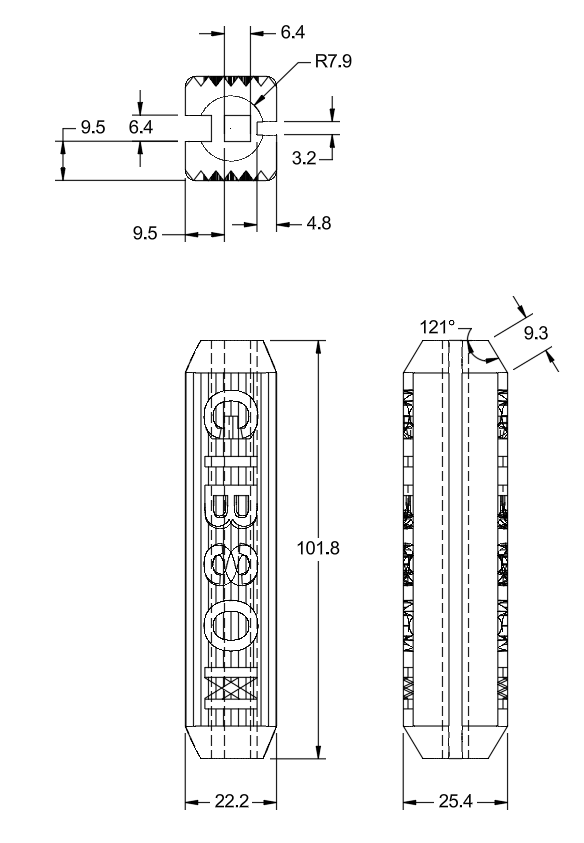
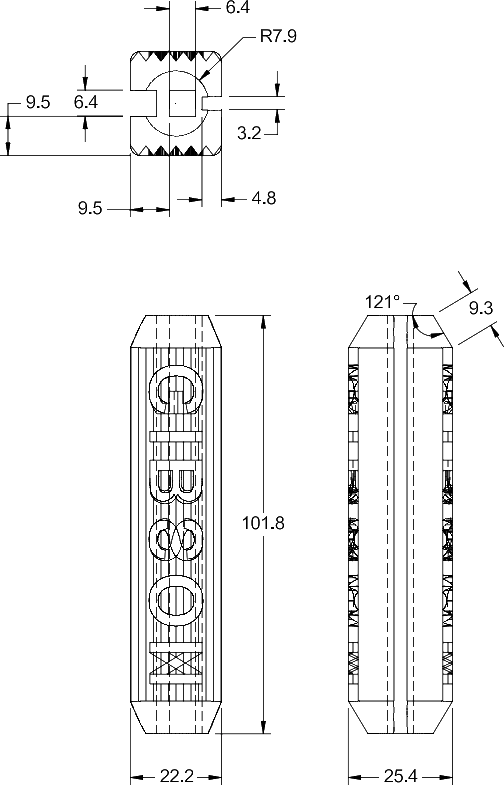
docs: document dimensions and clarify printing instructions

diff --git a/README.md b/README.md
@@ -1,7 +1,3 @@
-**still a WIP - repo as placeholder for now**
-
-Currently viewable and downloadable from the [F360 website here](https://a360.co/4dgqYPB).
-
 # Gibson Bicycle Pedal Insert
 
 3D-printable replacement insert for vintage Gibson bicycle pedals.
@@ -10,7 +6,7 @@ These black plastic inserts were originally used in Gibson bicycle
 pedals. This project provides a modern replacement that can be
 3D-printed for restoration purposes.
 
-![Gibson pedal with printed insert](Images/gibson-pedal-installed.jpg)
+![Gibson pedal with printed insert](Images/gibson-pedal-insert-photo.jpg)
 
 ## Status
 
@@ -22,24 +18,26 @@ endorsed by Gibson.
 
 ## Files
 
-- `CAD/` — source CAD files
-- `3D-print/STL/` — STL files for printing
-- `3D-print/3MF/` — 3MF files, where available
-- `docs/PRINTING.md` — printing recommendations
-- `docs/DIMENSIONS.md` — dimensions and measurements
+- `CAD/`: source CAD files
+- `3D-print/`: 3MF and STL files for printing
+- `docs/PRINTING.md`: printing recommendations
+- `docs/DIMENSIONS.md`: dimensions and measurements
 
 ## Printing
 
 Recommended starting settings:
 
-- Material: PETG
+- Material: TPU
 - Layer height: 0.20 mm
 - Walls: 4
-- Infill: 100%
+- Infill: 20%
 - Supports: No
-- Orientation: Print flat on the largest face
+- Brim: 10 mm outer brim
+- Orientation: Print vertically
 
-The part should be printed at 100% scale.
+The part should be printed at 100% scale. It will use about 25 g of TPU plastic.
+
+![Gibson pedal insert rendering](Images/gibson-pedal-insert-render.png)
 
 See [PRINTING.md](docs/PRINTING.md) for additional information.
 
@@ -52,12 +50,15 @@ Check the fit carefully before using the bicycle.
 
 ## Background
 
-This model was created as a replacement for the original plastic
+This model was created as a replacement for the original rubber
 pedal insert found on vintage Gibson bicycle pedals.
+
+Also viewable and downloadable from the [F360 website here](https://a360.co/4dgqYPB).
 
 Discussion and reference material:
 
 [The CABE Gibson Pedals thread](https://thecabe.com/forum/threads/gibson-pedals-thread-post-up-your-gibson-photos.224916/)
+[Vintage CCM thread](https://www.vintageccm.com/content/gibson-pedals)
 
 ## License
 

diff --git a/docs/DIMENSIONS.md b/docs/DIMENSIONS.md
@@ -8,10 +8,32 @@ Drawing files can be found in `../Drawings/`.
 The model was created from measurements of an original Gibson pedal
 insert.
 
-## Reference discussion:
+![Gibson pedal insert dimensions](../Images/gibson-pedal-insert-dimensions.png)
+
+## Main dimensions
+
+All dimensions are in millimetres. The nominal dimensions shown on the
+drawing are:
+
+| Dimension | Nominal value |
+| --- | ---: |
+| Overall length | 101.6 mm |
+| Transverse dimension | 22.2 mm |
+| Lateral dimension | 25.4 mm |
+| Central opening | 6.4 mm |
+| End radius | R7.8 mm |
+| Top angle | 121° |
+
+The exported STL and 3MF measure approximately 22.225 x 101.775 x 25.400
+mm. Print at 100% scale.
+
+The drawing also contains the smaller feature dimensions and should be used
+for those details. Verify the fit against the pedal before use.
+
+## Reference discussion
 
 The CABE: Gibson Pedals thread:
-https://thecabe.com/forum/threads/gibson-pedals-thread-post-up-your-gibson-photos.224916/
+<https://thecabe.com/forum/threads/gibson-pedals-thread-post-up-your-gibson-photos.224916/>
 
 The original part was measured directly; dimensions were not obtained
 from a manufacturer's CAD file.

diff --git a/docs/PRINTING.md b/docs/PRINTING.md
@@ -5,8 +5,11 @@ Recommended starting settings:
 - Material: TPU
 - Layer height: 0.20 mm
 - Walls: 4
-- Infill: 100%
+- Infill: 20%
 - Supports: No
-- Orientation: Print vertical on the smaller surface
+- Brim: 10 mm outer brim
+- Orientation: Print vertically
 
 Print the insert at 100% scale and confirm fit before use.
+
+![Gibson pedal insert rendering](../Images/gibson-pedal-insert-render.png)
